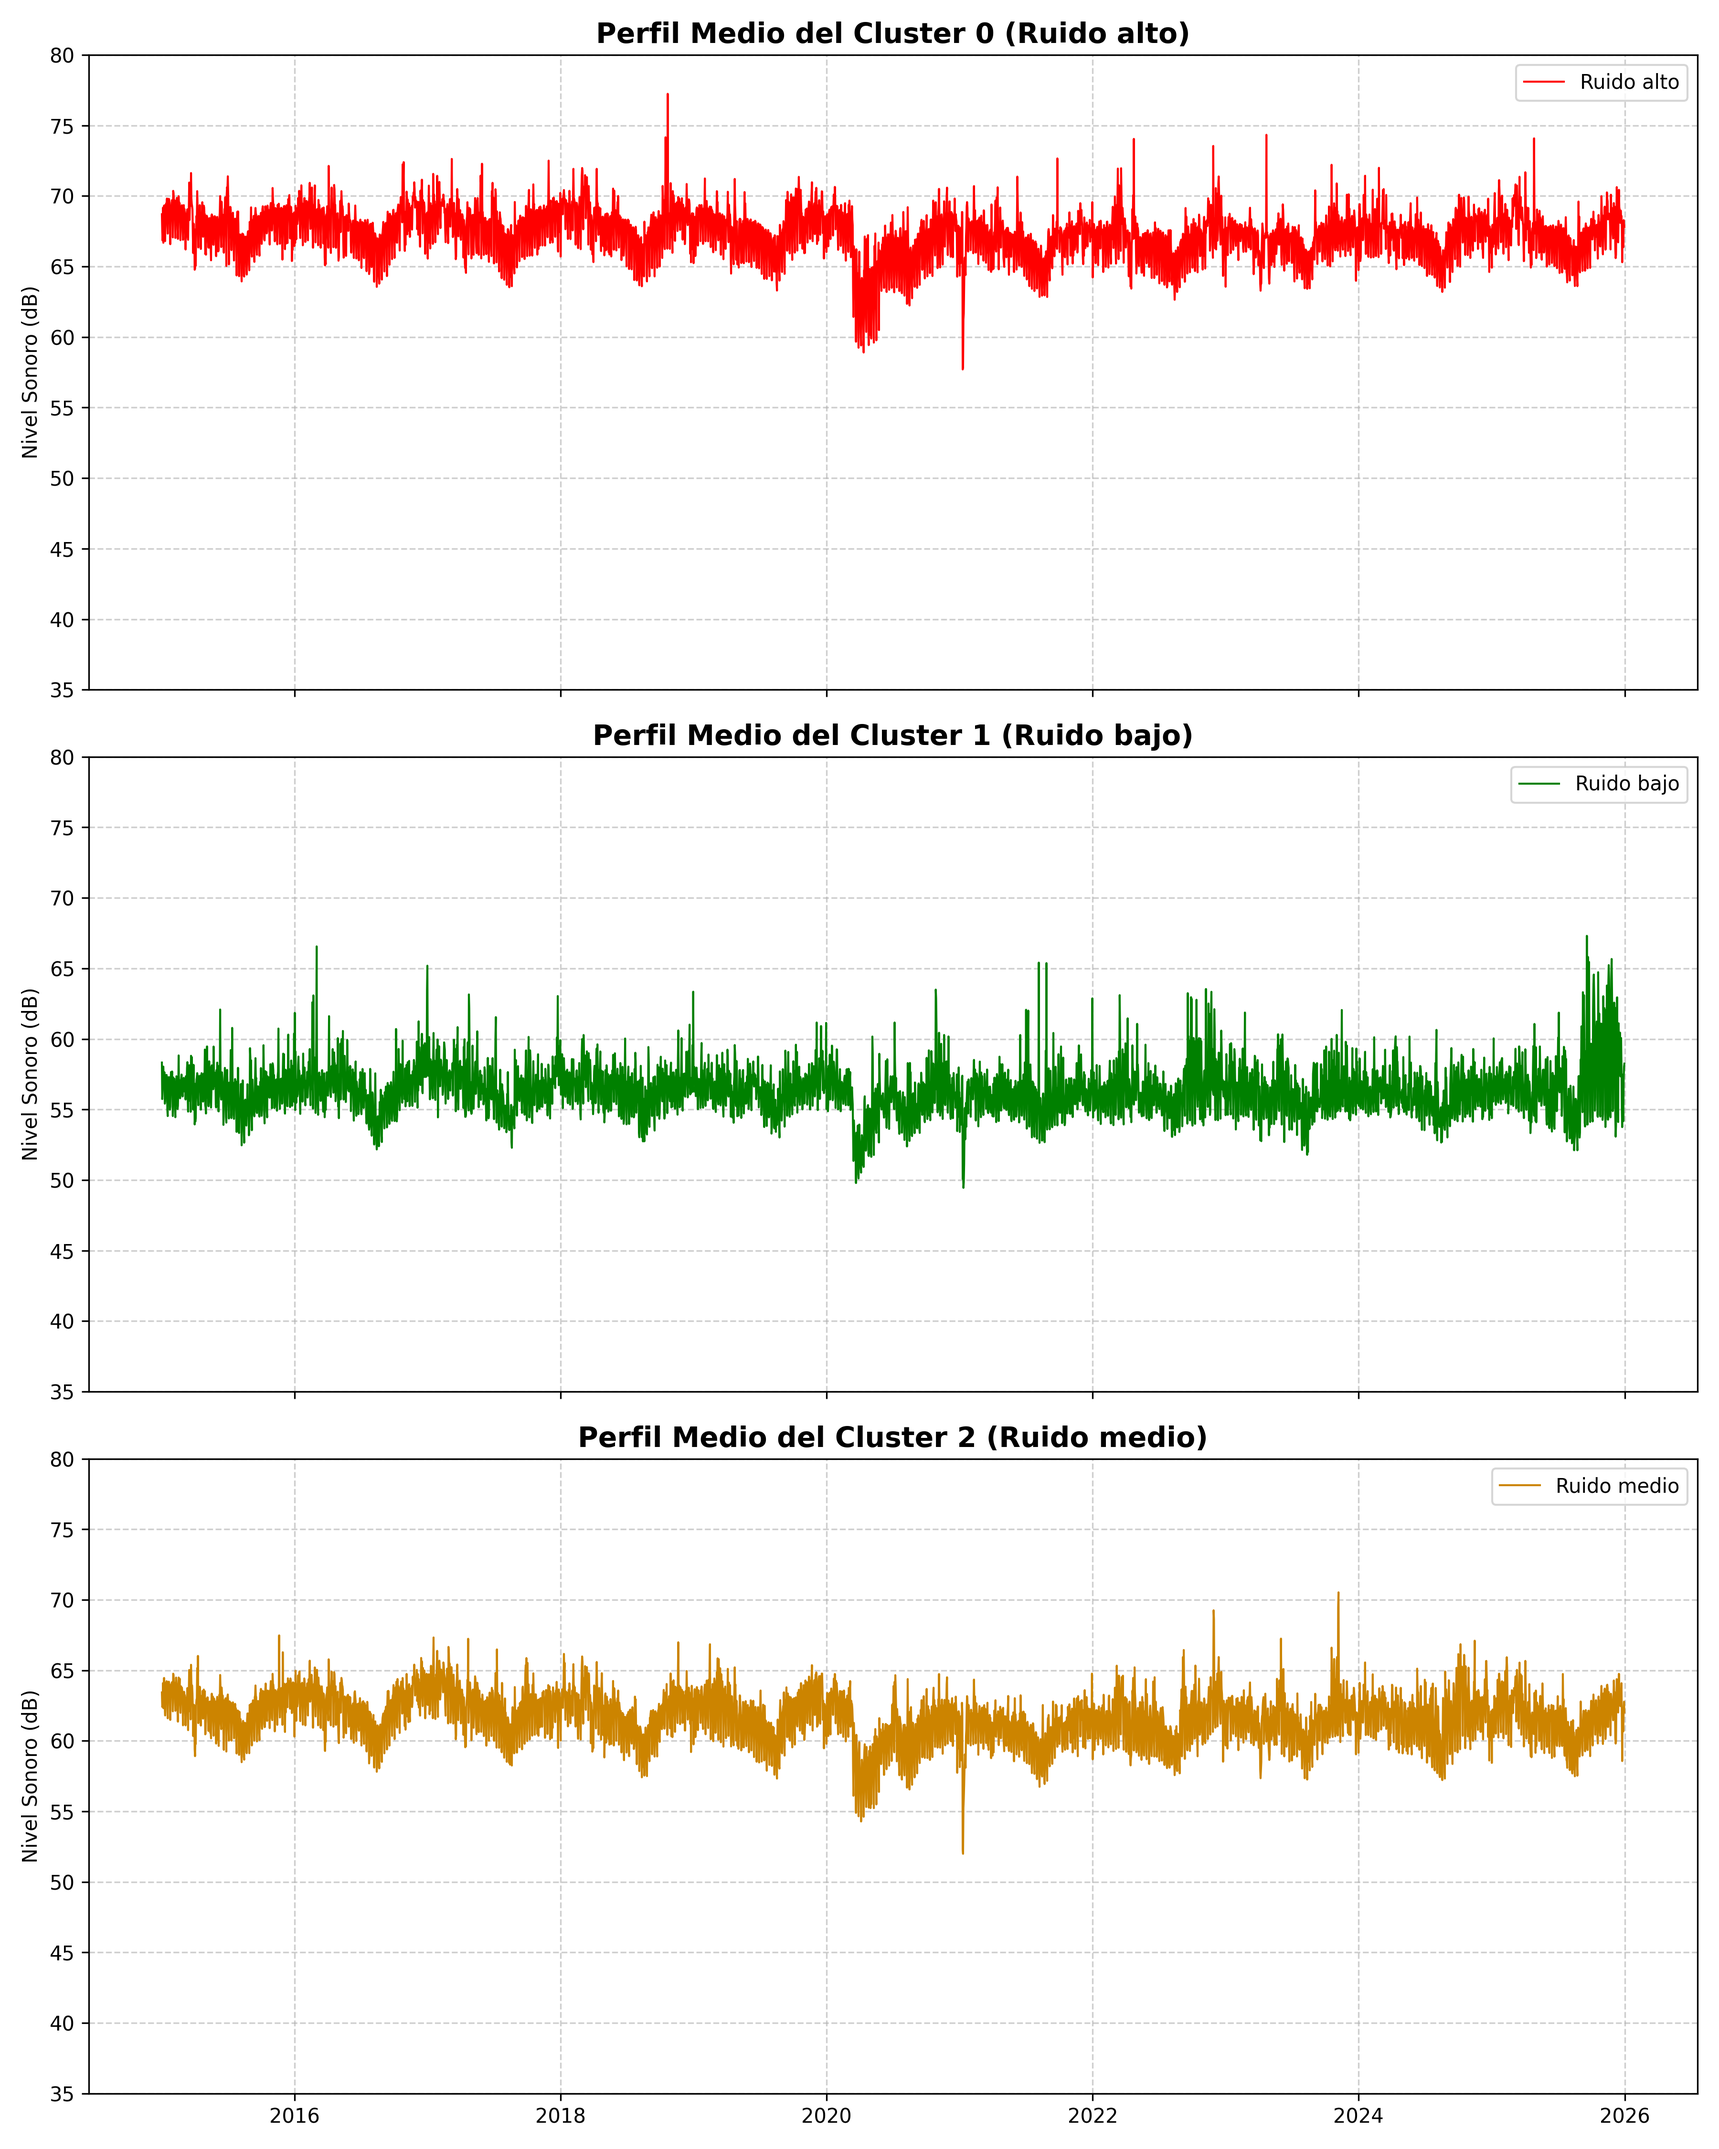
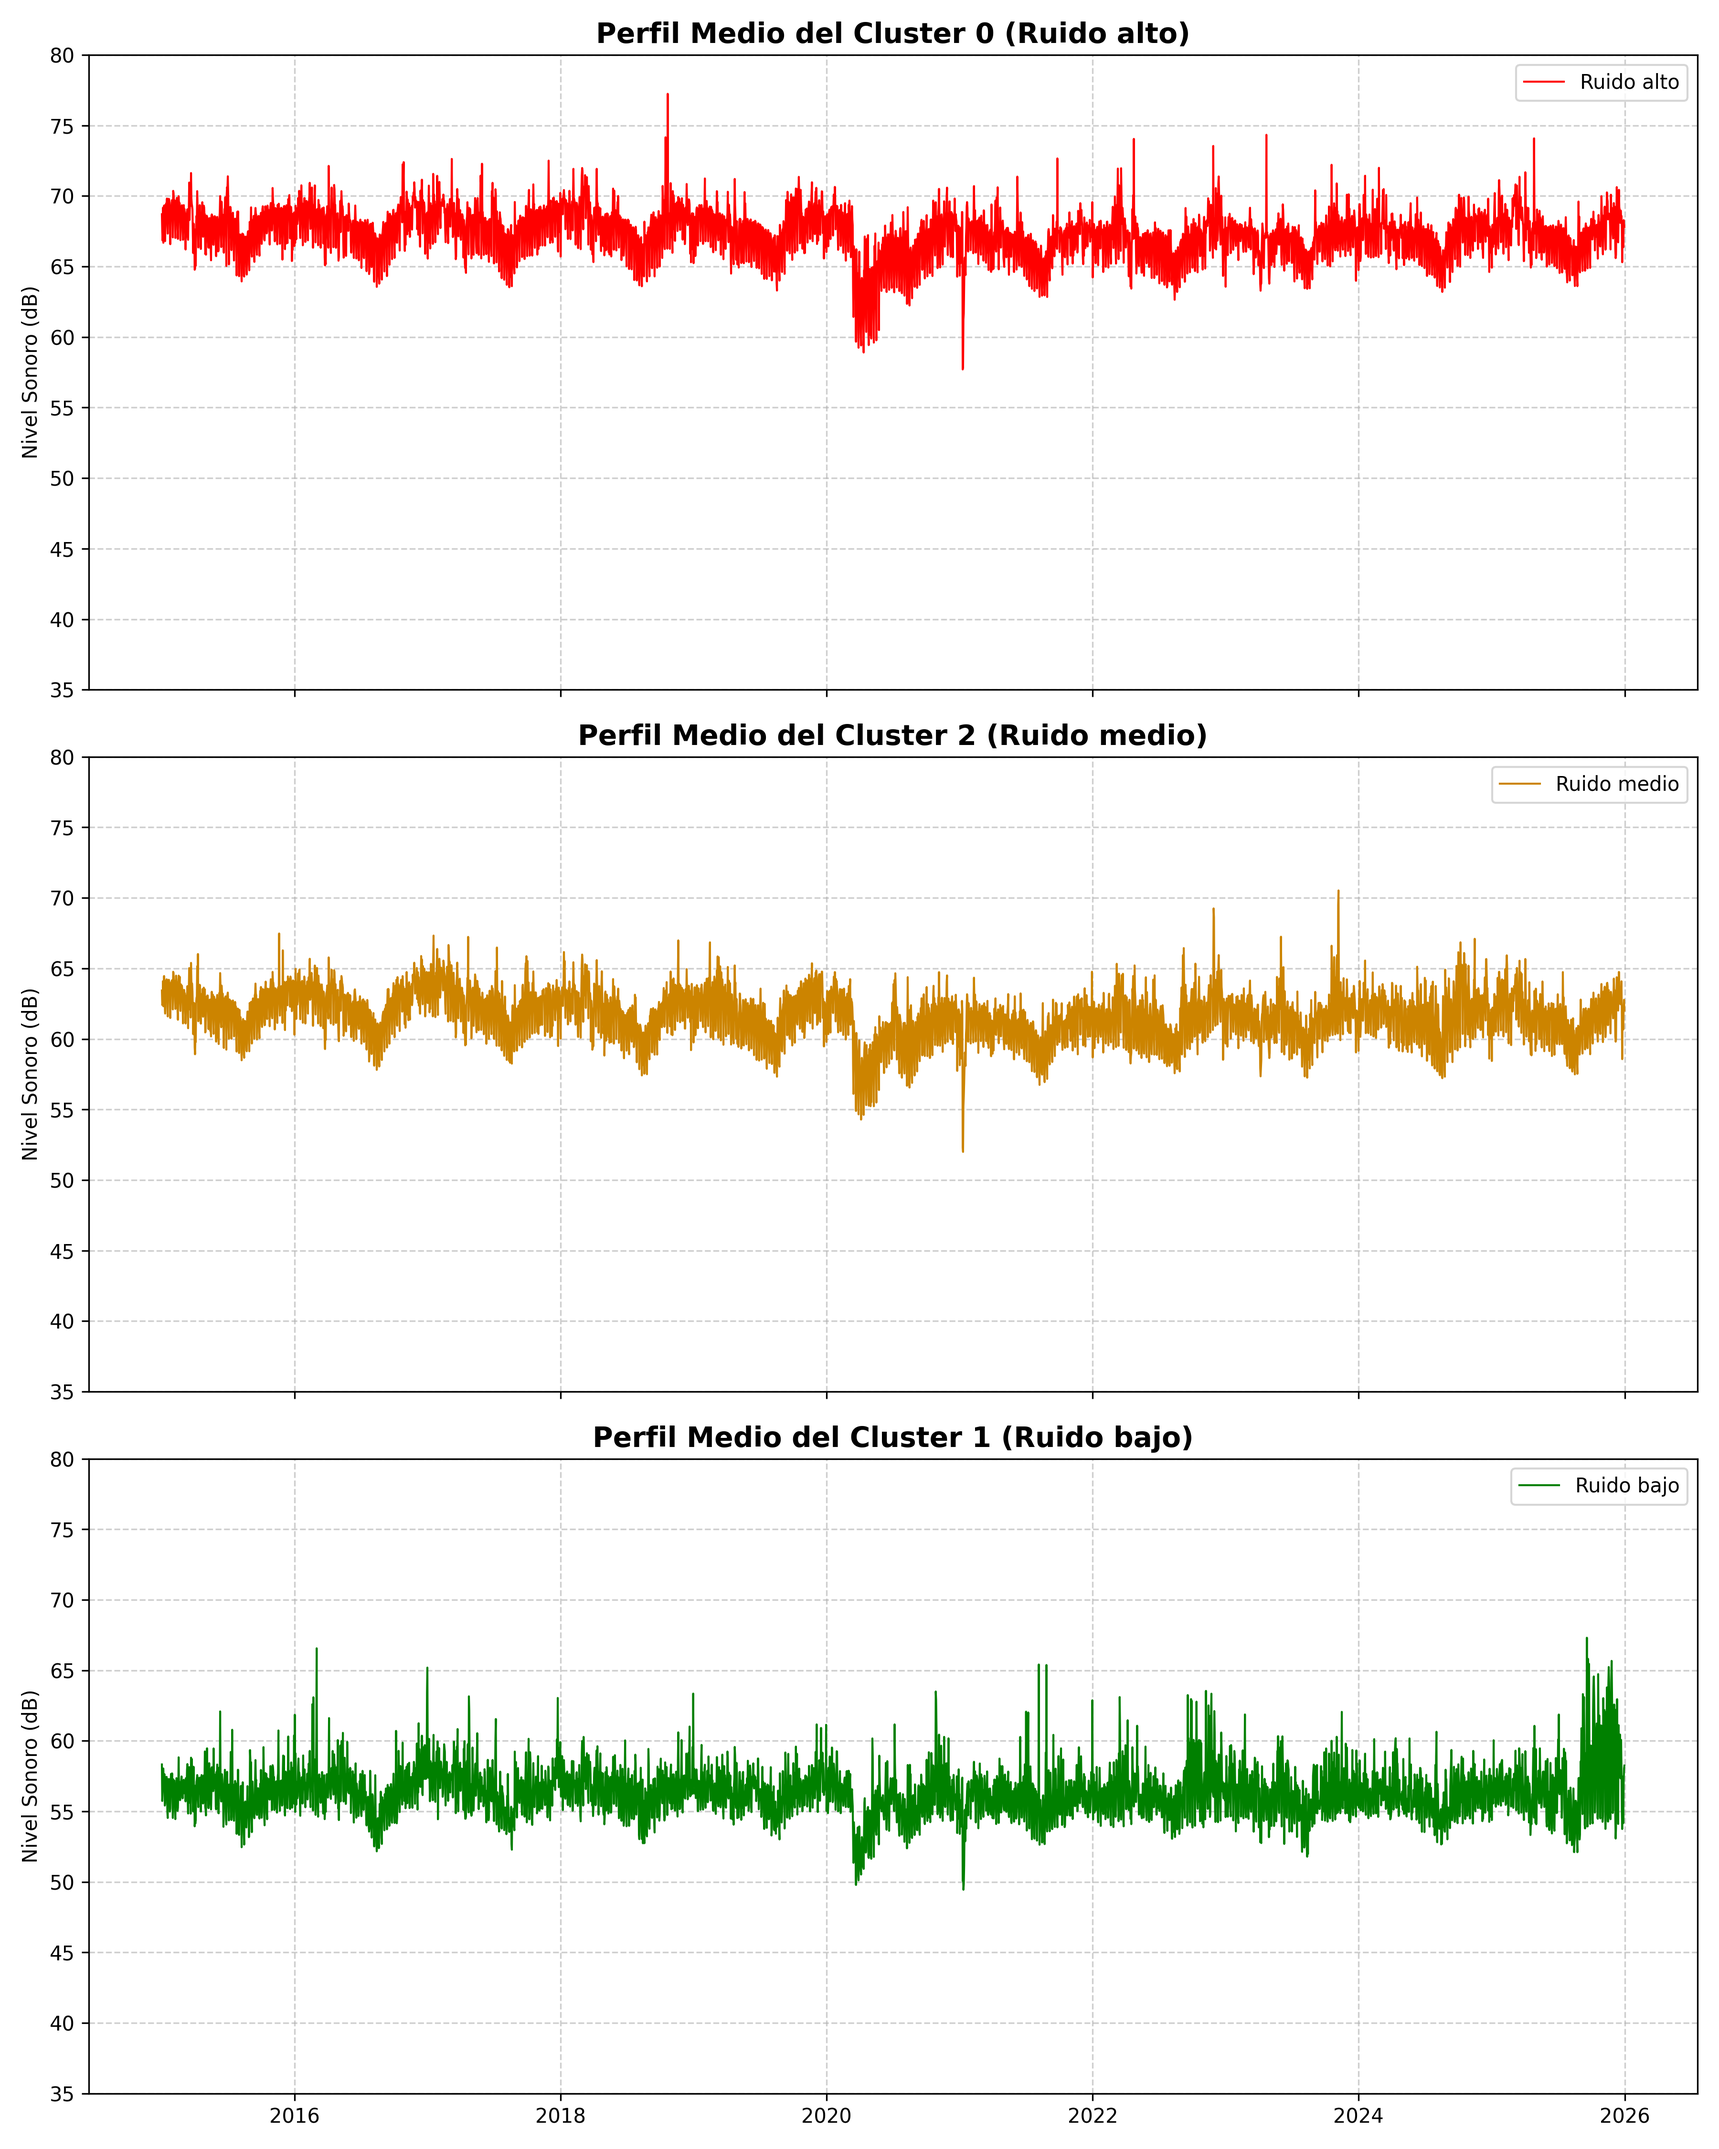
Fix display order

diff --git a/src/clustering/cluster_means.py b/src/clustering/cluster_means.py
@@ -55,15 +55,16 @@ def calculate_cluster_means(period, mapping_path):
     overall_means = {c: cluster_means_df[f'Cluster_{c}'].mean()
                      for c in clusters if f'Cluster_{c}' in cluster_means_df.columns}
     rank = sorted(overall_means, key=overall_means.get)  # ascending
-    color_map  = {rank[0]: 'green', rank[1]: '#CC8400', rank[2]: 'red'}
-    label_map  = {rank[0]: 'Ruido bajo', rank[1]: 'Ruido medio', rank[2]: 'Ruido alto'}
+    color_map    = {rank[0]: 'green', rank[1]: '#CC8400', rank[2]: 'red'}
+    label_map    = {rank[0]: 'Ruido bajo', rank[1]: 'Ruido medio', rank[2]: 'Ruido alto'}
+    display_order = [rank[2], rank[1], rank[0]]  # Red → Yellow → Green
 
     os.makedirs(os.path.dirname(img_individual), exist_ok=True)
 
     # Image 1: individual subplots
     fig1, axes = plt.subplots(nrows=len(clusters), ncols=1, figsize=(12, 15), sharex=True)
 
-    for i, c in enumerate(clusters):
+    for i, c in enumerate(display_order):
         col = f'Cluster_{c}'
         if col in cluster_means_df.columns:
             ax = axes[i]
@@ -83,7 +84,7 @@ def calculate_cluster_means(period, mapping_path):
     # Image 2: overlaid plot
     fig2, ax2 = plt.subplots(figsize=(12, 7))
 
-    for c in clusters:
+    for c in display_order:
         col = f'Cluster_{c}'
         if col in cluster_means_df.columns:
             ax2.plot(cluster_means_df.index, cluster_means_df[col],
